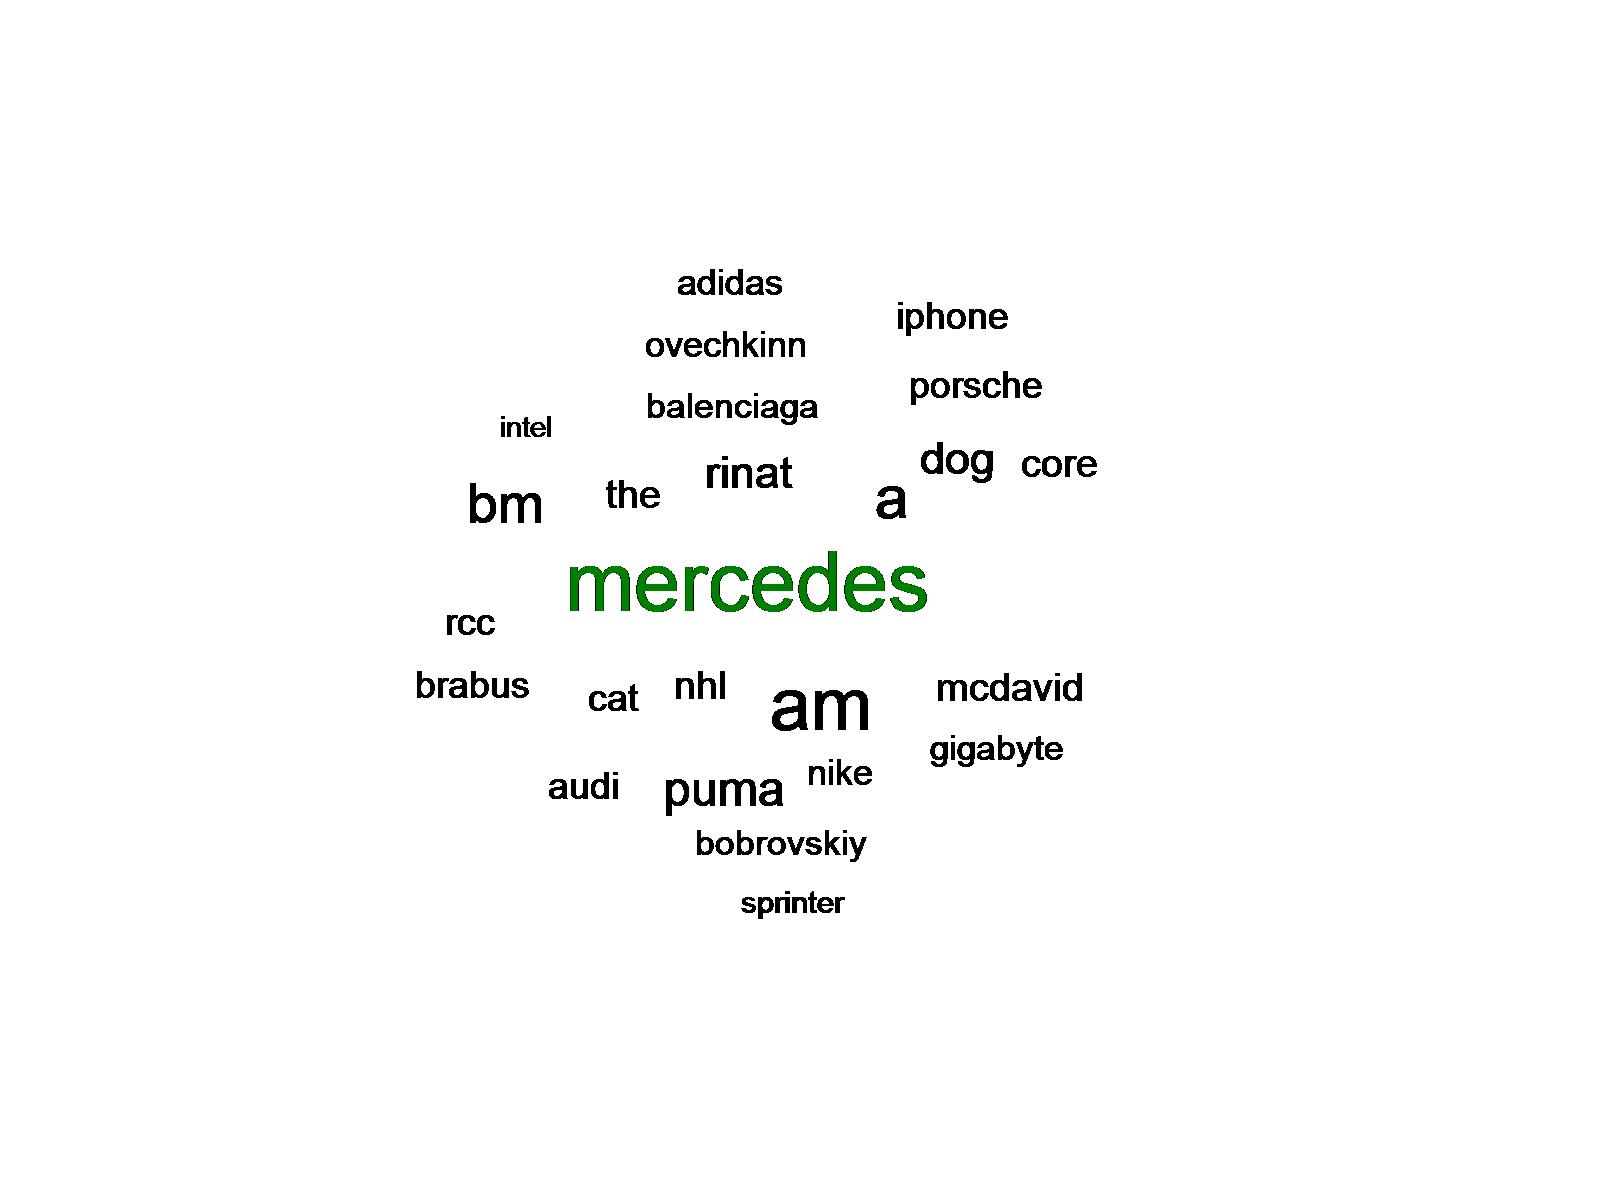
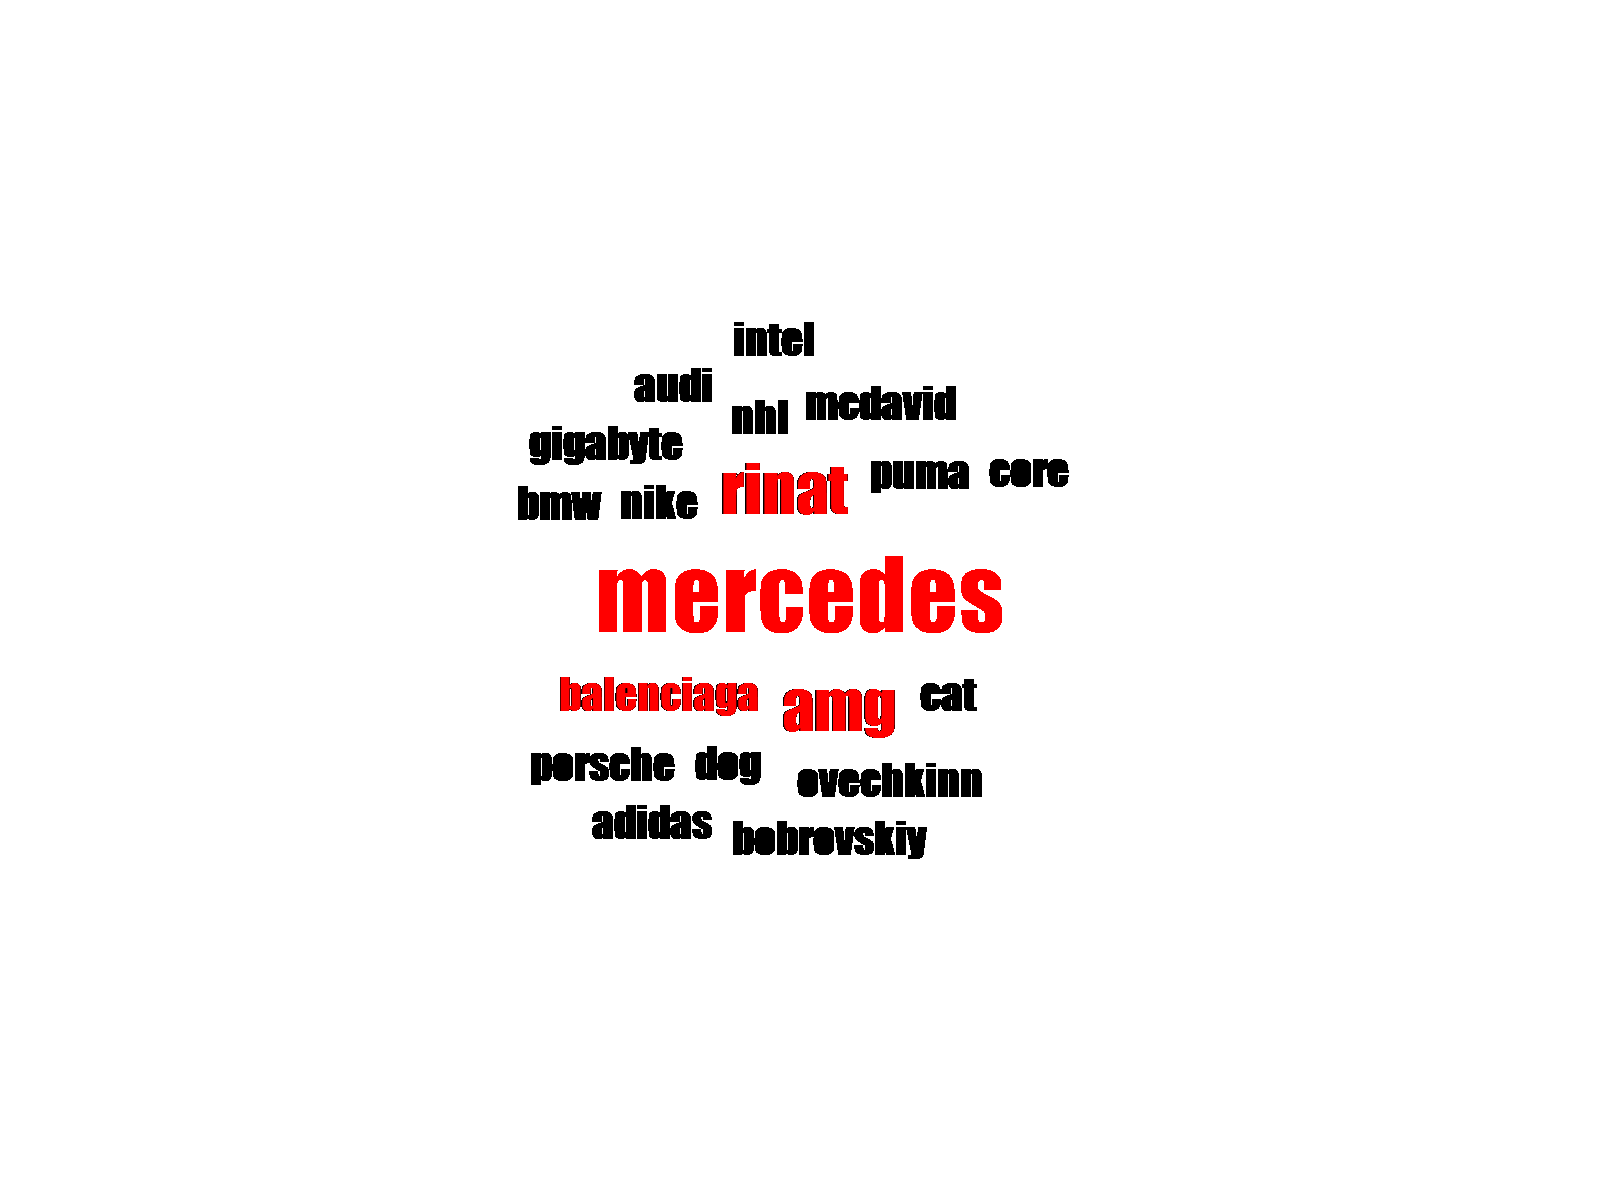
Добавлены настройки Шрифта, Скучных слов,  Цвета, Цвета популярных слов, алгоритм покраски слов.

diff --git a/TagsCloudContainer/TagsCloud/TagCloudApp.cs b/TagsCloudContainer/TagsCloud/TagCloudApp.cs
@@ -1,29 +1,33 @@
-using System.Drawing.Imaging;
-using System.Drawing;
+using System.Drawing;
 using TagsCloudContainer.Interfaces;
 using TagsCloudContainer.Utility;
+using TagsCloudContainer.Readers;
 
 namespace TagsCloudContainer.TagsCloud
 {
     public class TagCloudApp
     {
-        private readonly IFileReader _fileReader;
         private readonly IPreprocessor _preprocessor;
-        private readonly ITagCloudGenerator _tagCloudGenerator;
         private readonly IImageSettings _imageSettings;
+        private string _fontName;
 
-        public TagCloudApp(IFileReader fileReader, IPreprocessor preprocessor, ITagCloudGenerator tagCloudGenerator, IImageSettings imageSettings)
+        public TagCloudApp(IPreprocessor preprocessor, IImageSettings imageSettings)
         {
-            _fileReader = fileReader;
             _preprocessor = preprocessor;
-            _tagCloudGenerator = tagCloudGenerator;
             _imageSettings = imageSettings;
         }
 
-        public void Run(string filePath)
+        public void SetFontName(string fontName)
         {
-            var words = _fileReader.ReadWords(filePath);
-            var processedWords = _preprocessor.Process(words);
+            _fontName = fontName;
+        }
+
+        public void Run(string filePath, string boringWordsFilePath, string fontName, Color fontColor, Color highlightColor, double percentageToHighlight)
+        {
+            SetFontName(fontName);
+
+            var words = ReadFile(filePath);
+            var processedWords = _preprocessor.Process(words, boringWordsFilePath);
 
             Console.WriteLine("Processed words:\n");
 
@@ -32,14 +36,36 @@ namespace TagsCloudContainer.TagsCloud
                 Console.WriteLine(item);
             }
 
-            var tagCloudImage = GenerateTagCloud(processedWords);
+            var tagCloudImage = GenerateTagCloud(processedWords, fontName, fontColor, highlightColor, percentageToHighlight);
 
-            tagCloudImage.Save(@"..\..\..\output\tagsCloud.png", ImageFormat.Png);
-
+            tagCloudImage.Save(@"..\..\..\output\tagsCloud.png");
             Console.WriteLine("Tag cloud image saved to: /output/");
         }
 
-        private Bitmap GenerateTagCloud(IEnumerable<string> words)
+        private IEnumerable<string> ReadFile(string filePath)
+        {
+            var fileReader = GetFileReader(filePath);
+            return fileReader.ReadWords(filePath);
+        }
+
+        private IFileReader GetFileReader(string filePath)
+        {
+            string fileExtension = Path.GetExtension(filePath)?.ToLower();
+
+            switch (fileExtension)
+            {
+                case ".doc":
+                    return new DocReader();
+                case ".docx":
+                    return new DocxReader();
+                case ".txt":
+                    return new TxtReader();
+                default:
+                    throw new InvalidOperationException("Unsupported file extension");
+            }
+        }
+
+        private Bitmap GenerateTagCloud(IEnumerable<string> words, string fontName, Color fontColor, Color highlightColor, double percentageToHighlight)
         {
             var layouter = CreateLayouter();
             var uniqueWords = new HashSet<string>();
@@ -49,17 +75,24 @@ namespace TagsCloudContainer.TagsCloud
 
             var sortedWords = words.OrderByDescending(word => wordFrequencies[word]);
 
+            var fontSizes = new List<int>();
+
             foreach (var word in sortedWords)
             {
-                if (uniqueWords.Add(word)) // Проверяем и добавляем в хеш-сет, возвращая true, если слово уникально
+                if (uniqueWords.Add(word))
                 {
-                    var font = new Font("Arial", CalculateFontSize(word, wordFrequencies, mostPopularWord));
+                    var fontSize = CalculateFontSize(word, wordFrequencies, mostPopularWord);
+                    fontSizes.Add(fontSize);
+
+                    var font = new Font(fontName, fontSize);
                     layouter.PutNextRectangle(word, font);
                 }
             }
 
             var rectangles = layouter.Rectangles.ToList();
-            return Visualizer.VisualizeRectangles(rectangles, uniqueWords, _imageSettings.ImageWidth, _imageSettings.ImageHeight);
+
+            return Visualizer.VisualizeRectangles(rectangles, uniqueWords,  _imageSettings.ImageWidth, _imageSettings.ImageHeight, 
+                fontSizes, _fontName, fontColor, highlightColor, percentageToHighlight, wordFrequencies: wordFrequencies);
         }
 
         private Dictionary<string, int> CalculateWordFrequencies(IEnumerable<string> words)
@@ -86,7 +119,7 @@ namespace TagsCloudContainer.TagsCloud
         {
             if (wordFrequencies.TryGetValue(word, out var frequency))
             {
-                return Math.Max(35, 35 + frequency * 2);
+                return Math.Max(30, 30 + frequency * 2);
             }
             return 10;
         }

diff --git a/TagsCloudContainer/Utility/Visualizer.cs b/TagsCloudContainer/Utility/Visualizer.cs
@@ -4,20 +4,23 @@ namespace TagsCloudContainer.Utility
 {
     public static class Visualizer
     {
-        public static Bitmap VisualizeRectangles(List<Rectangle> rectangles, HashSet<string> uniqueWords, int bitmapWidth, int bitmapHeight)
+        public static Bitmap VisualizeRectangles(List<Rectangle> rectangles, HashSet<string> uniqueWords,
+    int bitmapWidth, int bitmapHeight, List<int> fontSizes, string fontName, Color fontColor, Color highlightColor, double percentageToHighlight,
+    Dictionary<string, int> wordFrequencies)
         {
             var bitmap = new Bitmap(bitmapWidth, bitmapHeight);
             using var graphics = Graphics.FromImage(bitmap);
+            var mostPopularWords = GetMostPopularWords(uniqueWords, percentageToHighlight, wordFrequencies);
 
             for (var i = 0; i < rectangles.Count; i++)
             {
                 var rect = rectangles[i];
-                var word = uniqueWords.ElementAt(i);
+                var word = uniqueWords.ElementAt(i).ToLower(); 
 
-                var fontSize = rect.Width / word.Length;
-                var font = new Font("Arial", fontSize, FontStyle.Regular);
+                var fontSize = fontSizes[i];
+                var font = new Font(fontName, fontSize, FontStyle.Regular);
 
-                var brushColor = word == GetMostPopularWord(uniqueWords) ? Color.Green : Color.Black;
+                var brushColor = mostPopularWords.Contains(word) ? highlightColor : fontColor;
                 var brush = new SolidBrush(brushColor);
 
                 graphics.DrawString(word, font, brush, rect);
@@ -26,9 +29,10 @@ namespace TagsCloudContainer.Utility
             return bitmap;
         }
 
-        private static string GetMostPopularWord(HashSet<string> uniqueWords)
+        private static List<string> GetMostPopularWords(HashSet<string> uniqueWords, double percentage, Dictionary<string, int> wordFrequencies)
         {
-            return uniqueWords.FirstOrDefault();
+            int countToHighlight = (int)Math.Ceiling(uniqueWords.Count * percentage);
+            return uniqueWords.OrderByDescending(word => wordFrequencies[word]).Take(countToHighlight).ToList();
         }
 
         //private static void DrawRectangles(IEnumerable<Rectangle> rectangles, Graphics graphics)

diff --git a/TagsCloudContainer/Startup.cs b/TagsCloudContainer/Startup.cs
@@ -10,13 +10,22 @@ namespace TagsCloudContainer
         public static ServiceProvider ConfigureServices()
         {
             return new ServiceCollection()
-                .AddSingleton<IFileReader, TxtReader>()
-                .AddSingleton<IPreprocessor, WordPreprocessor>()
-                .AddSingleton<IImageSettings, ImageSettings>()
-                .AddSingleton<ITagCloudGenerator, TagCloudGenerator>()
-                .AddSingleton<ITagCloudClient, CommandLineClient>()
-                .AddSingleton<TagCloudApp>()
-                .BuildServiceProvider();
-        }
+            .AddSingleton<IFileReader, TxtReader>()
+            .AddSingleton<IPreprocessor, WordPreprocessor>()
+            .AddSingleton<IImageSettings, ImageSettings>()
+            .AddSingleton<ITagCloudGenerator, TagCloudGenerator>()
+            .AddSingleton<ITagCloudClient, CommandLineClient>()
+            .AddScoped(provider =>
+            {
+                var fileReader = provider.GetRequiredService<IFileReader>();
+                var preprocessor = provider.GetRequiredService<IPreprocessor>();
+                var tagCloudGenerator = provider.GetRequiredService<ITagCloudGenerator>();
+                var imageSettings = provider.GetRequiredService<IImageSettings>();
+
+
+                return new TagCloudApp(preprocessor, imageSettings);
+            })
+            .BuildServiceProvider();
+        }      
     }
 }

diff --git a/TagsCloudContainer/Program.cs b/TagsCloudContainer/Program.cs
@@ -1,16 +1,23 @@
 using Microsoft.Extensions.DependencyInjection;
+using System.Drawing;
 using TagsCloudContainer.TagsCloud;
 
 namespace TagsCloudContainer
 {
     public class Program
     {
-        static void Main(string[] args)
+           static void Main(string[] args)
         {
             using (var serviceProvider = Startup.ConfigureServices())
             {
                 var tagCloudApp = serviceProvider.GetRequiredService<TagCloudApp>();
-                tagCloudApp.Run("src/text.txt");
+
+                tagCloudApp.Run("src/text.doc",         // Исходный файл со словами
+                                "src/boring_words.txt", // Файл со скучными словами
+                                "Georgia",              // Шрифт текста
+                                Color.Black,            // Цвет основного текста
+                                Color.Red,              // Цвет популярных слов
+                                0.2);                   // % Окрашивания популярных слов (топ-20%)        
             }
         }
     }

diff --git a/TagsCloudContainer/TagsCloud/WordPreprocessor.cs b/TagsCloudContainer/TagsCloud/WordPreprocessor.cs
@@ -11,18 +11,21 @@ namespace TagsCloudContainer.TagsCloud
             this.boringWords = new HashSet<string>(boringWords, StringComparer.OrdinalIgnoreCase);
         }
 
-        public IEnumerable<string> Process(IEnumerable<string> words)
+        public IEnumerable<string> Process(IEnumerable<string> words, string boringWordsFilePath)
         {
             var lowercasedWords = words.Select(word => word.ToLower());
 
-            var filteredWords = lowercasedWords.Where(word => !IsBoringWord(word));
+            var boringWordsFromFile = File.ReadAllLines(boringWordsFilePath).Select(line => line.ToLower()).ToHashSet();
+
+            var filteredWords = lowercasedWords.Where(word => !IsBoringWord(word, boringWordsFromFile));
 
             return filteredWords;
         }
 
-        private bool IsBoringWord(string word)
+        private bool IsBoringWord(string word, HashSet<string> boringWords)
         {
             return boringWords.Contains(word);
         }
+
     }
 }

diff --git a/TagsCloudContainer/Interfaces/IPreprocessor.cs b/TagsCloudContainer/Interfaces/IPreprocessor.cs
@@ -3,6 +3,6 @@ namespace TagsCloudContainer.Interfaces
 {
     public interface IPreprocessor
     {
-        IEnumerable<string> Process(IEnumerable<string> words);
+        IEnumerable<string> Process(IEnumerable<string> words, string boringWordsFilePath);
     }
 }
